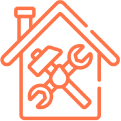
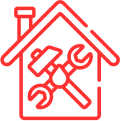
Changed some more details to red, removed some stuff for mobile and tablet

Changed region(s): [[0.0, 0.0, 0.9917, 0.9917], [0.2231, 0.3471, 0.7686, 0.9174]]

diff --git a/src/components/Technologies.jsx b/src/components/Technologies.jsx
@@ -93,7 +93,7 @@ const Technologies = () => {
                                 {slides[0].title}
                             </h1>
                             <p className={`mb-2 text-[#56423E] text-center lg:text-justify text-xs md:text-base md:leading-4 lg:text-lg xl:text-xl ${raleway.className}`}>{slides[0].text}</p>
-                            <div className="w-full flex flex-col lg:flex-row  mb-2 text-[#56423E] text-xs md:text-base md:leading-4 lg:text-lg xl:text-xl font-normal lg:gap-x-3 text-center">
+                            <div className="w-full flex flex-col lg:flex-row  mb-2 text-[#56423E] text-xs md:text-base md:leading-4 lg:text-lg xl:text-xl font-medium lg:gap-x-3 text-center">
                                 <p>Партньори:</p>
                                 <Link
                                     href='https://kronospan.com/bg_BG/products/view/kronodesign/laminirani-plochi/laminirano-pd-ch/laminirano-pd-ch-1'
@@ -154,7 +154,7 @@ const Technologies = () => {
                                 {slides[2].title}
                             </h1>
                             <p className={`mb-2 text-[#56423E] text-center lg:text-justify text-xs md:text-base md:leading-4 lg:text-lg xl:text-xl ${raleway.className}`}>{slides[2].text}</p>
-                            <div className="w-full flex flex-col lg:flex-row  mb-2 text-[#56423E] text-xs md:text-base md:leading-4 lg:text-lg xl:text-xl font-normal lg:gap-x-3 text-center">
+                            <div className="w-full flex flex-col lg:flex-row  mb-2 text-[#56423E] text-xs md:text-base md:leading-4 lg:text-lg xl:text-xl font-medium lg:gap-x-3 text-center">
                                 <p>Партньори:</p>
                                 <Link
                                     href='https://lotostrading.com/bg/mebelni-drazhki'
@@ -195,7 +195,7 @@ const Technologies = () => {
                                 {slides[3].title}
                             </h1>
                             <p className={`mb-2 text-[#56423E] text-center lg:text-justify text-xs md:text-base md:leading-4 lg:text-lg xl:text-xl ${raleway.className}`}>{slides[3].text}</p>
-                            <div className="w-full flex flex-col lg:flex-row  mb-2 text-[#56423E] text-xs md:text-base md:leading-4 lg:text-lg xl:text-xl font-normal lg:gap-x-3 text-center">
+                            <div className="w-full flex flex-col lg:flex-row  mb-2 text-[#56423E] text-xs md:text-base md:leading-4 lg:text-lg xl:text-xl font-medium lg:gap-x-3 text-center">
                                 <p>Партньори:</p>
                                 <Link
                                     href='https://www.teka.com/bg-bg/'
@@ -230,7 +230,7 @@ const Technologies = () => {
                                 {slides[4].title}
                             </h1>
                             <p className={`mb-2 text-[#56423E] text-center lg:text-justify text-xs md:text-base md:leading-4 lg:text-lg xl:text-xl ${raleway.className}`}>{slides[4].text}</p>
-                            <div className="w-full flex flex-col lg:flex-row  mb-2 text-[#56423E] text-xs md:text-base md:leading-4 lg:text-lg xl:text-xl font-normal lg:gap-x-3 text-center">
+                            <div className="w-full flex flex-col lg:flex-row  mb-2 text-[#56423E] text-xs md:text-base md:leading-4 lg:text-lg xl:text-xl font-medium lg:gap-x-3 text-center">
                                 <p>Партньори:</p>
                                 <Link
                                     href='http://www.tunakapi.com/'

diff --git a/src/components/Services.jsx b/src/components/Services.jsx
@@ -62,7 +62,7 @@ const Services = () => {
                         xl:rounded-[5rem_0] border-2 border-solid border-[#FF3131] bg-white shadow-[4px_4px_0_rgba(0,0,0,0.3)]"
                     >
                         <div
-                            className="relative w-12 h-12 md:w-24 md:h-24 xl:w-[7.5rem] xl:h-[7.5rem]"
+                            className="relative w-12 h-12 md:w-24 md:h-24"
                         >
                             <Image
                                 src={services[0].img}
@@ -91,7 +91,7 @@ const Services = () => {
                         className="flex flex-shrink-0 justify-center items-center mr-6 w-24 h-24 md:w-48 md:h-48 xl:w-48 xl:h-48 rounded-[2.2rem_0] md:rounded-[4rem_0] lg:rounded-[5.5rem_0] 
                         xl:rounded-[5rem_0] border-2 border-solid border-[#FF3131] bg-white shadow-[4px_4px_0_rgba(0,0,0,0.3)]"
                     >
-                        <div className="relative w-12 h-12 md:w-24 md:h-24 xl:w-[7.5rem] xl:h-[7.5rem]">
+                        <div className="relative w-12 h-12 md:w-24 md:h-24">
                             <Image
                                 src={services[1].img}
                                 alt="Консултация"
@@ -119,7 +119,7 @@ const Services = () => {
                         className="flex flex-shrink-0 justify-center items-center mr-6 w-24 h-24 md:w-48 md:h-48 xl:w-48 xl:h-48 rounded-[2.2rem_0] md:rounded-[4rem_0] lg:rounded-[5.5rem_0] 
                         xl:rounded-[5rem_0] border-2 border-solid border-[#FF3131] bg-white shadow-[4px_4px_0_rgba(0,0,0,0.3)]"
                     >
-                        <div className="relative w-12 h-12 md:w-24 md:h-24 xl:w-[7.5rem] xl:h-[7.5rem]">
+                        <div className="relative w-12 h-12 md:w-24 md:h-24">
                             <Image
                                 src={services[2].img}
                                 alt="Консултация"
@@ -147,7 +147,7 @@ const Services = () => {
                         className="flex flex-shrink-0 justify-center items-center mr-6 w-24 h-24 md:w-48 md:h-48 xl:w-48 xl:h-48 rounded-[2.2rem_0] md:rounded-[4rem_0] lg:rounded-[5.5rem_0] 
                         xl:rounded-[5rem_0] border-2 border-solid border-[#FF3131] bg-white shadow-[4px_4px_0_rgba(0,0,0,0.3)]"
                     >
-                        <div className="relative w-12 h-12 md:w-24 md:h-24 xl:w-[7.5rem] xl:h-[7.5rem]">
+                        <div className="relative w-12 h-12 md:w-24 md:h-24">
                             <Image
                                 src={services[3].img}
                                 alt="Консултация"
@@ -175,7 +175,7 @@ const Services = () => {
                         className="flex flex-shrink-0 justify-center items-center mr-6 w-24 h-24 md:w-48 md:h-48 xl:w-48 xl:h-48 rounded-[2.2rem_0] md:rounded-[4rem_0] lg:rounded-[5.5rem_0] 
                         xl:rounded-[5rem_0] border-2 border-solid border-[#FF3131] bg-white shadow-[4px_4px_0_rgba(0,0,0,0.3)]"
                     >
-                        <div className="relative w-12 h-12 md:w-24 md:h-24 xl:w-[7.5rem] xl:h-[7.5rem]">
+                        <div className="relative w-12 h-12 md:w-24 md:h-24">
                             <Image
                                 src={services[4].img}
                                 alt="Консултация"

diff --git a/src/components/Footer.jsx b/src/components/Footer.jsx
@@ -40,7 +40,7 @@ const Footer = () => {
                     {/* email copy popup */}
                     <div
                         id="copytooltip_email"
-                        className={`flex max-w-fit bg-[#555] text-white justify-center items-center px-4 py-1 rounded-xl absolute left-0 right-0 mx-auto bottom-9 md:bottom-10 lg:bottom-8 opacity-0 
+                        className={`hidden lg:flex max-w-fit bg-[#555] text-white justify-center items-center px-4 py-1 rounded-xl absolute left-0 right-0 mx-auto bottom-8 opacity-0 
                         transition-opacity duration-200 ease-in-out ${inter.className} font-medium`}
                     >
                         <PiCopyFill className="mr-2" />
@@ -91,7 +91,7 @@ const Footer = () => {
                     {/* tel copy popup */}
                     <div
                         id="copytooltip_tel"
-                        className={`flex max-w-fit bg-[#555] text-white justify-center items-center px-4 py-1 rounded-xl absolute left-0 right-0 mx-auto bottom-[7.2rem] md:bottom-32 lg:bottom-8 opacity-0 
+                        className={`hidden lg:flex max-w-fit bg-[#555] text-white justify-center items-center px-4 py-1 rounded-xl absolute left-0 right-0 mx-auto bottom-8 opacity-0 
                         transition-opacity duration-200 ease-in-out ${inter.className} font-medium`}
                     >
                         <PiCopyFill className="mr-2" />
